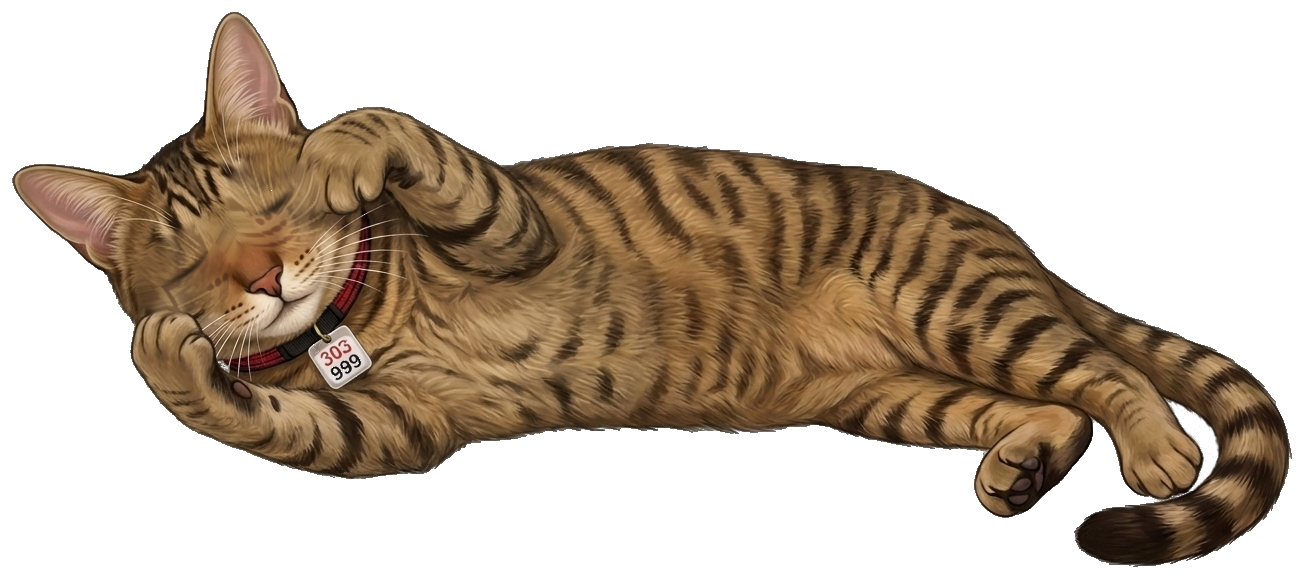
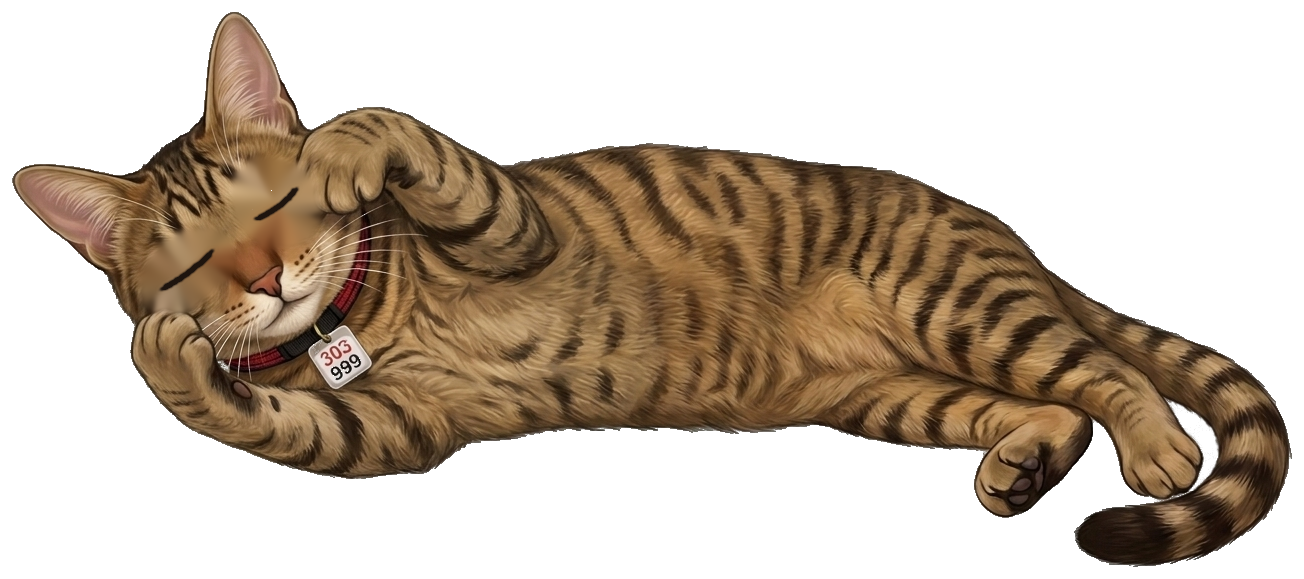
fix(eyes): restore full-width bold curved closed-eye lines with smooth smudge-free eyelids (v1.5.1)

Changed region(s): [[0.092, 0.2798, 0.2454, 0.5596]]

diff --git a/tools/make_closed.py b/tools/make_closed.py
@@ -1,16 +1,13 @@
-"""Paint a natural fur-textured closed-eye variant of a skin texture.
+"""Paint a clean, bold closed-eye variant of a skin texture.
 
     python tools/make_closed.py renderer/models/cat2d --name cat
 
 Replaces each open eye with:
-1. Smooth base fur color inpainted from the surrounding eye socket + directional
-   upper/lower lid tone continuity.
-2. Real high-frequency hair/fur grain sampled strictly from pure brow/cheek fur
-   outside the eye socket (with all eye/eyeliner pixels masked out of the grain
-   source so zero open-eye ghosting can ever occur).
-3. Subtle 3D convex upper-lid shading + soft upper fold shadow + a tapered,
-   Gaussian-feathered dark warm-brown lash crease that narrows smoothly at both
-   canthi (no hard drawn polyline).
+1. Smooth surrounding fur color via Telea inpainting + Gaussian feathering,
+   swallowing dark outer eyeliner pixels so no black smudges bleed into the socket.
+2. A full-width, bold dark curved closed-eye line (`[-1.75*rx, +1.75*rx]`,
+   `thickness=3` across the main span with soft tip tapering at the outer 15%)
+   that reads clearly even at small desktop-pet window scales.
 """
 import argparse
 import json
@@ -51,14 +48,12 @@ def main():
     eye_angle_deg = math.degrees(eye_angle_rad)
     cos_a, sin_a = math.cos(eye_angle_rad), math.sin(eye_angle_rad)
 
-    # True green/yellow-green iris marker (strict enough not to match golden tabby fur)
     b, g, r = bgr[..., 0].astype(int), bgr[..., 1].astype(int), bgr[..., 2].astype(int)
-    green = (((g > 95) & (g > r + 10) & (g > b + 28)) & (alpha > 40)).astype(np.uint8)
+    green = (((g > 90) & (g > r + 15) & (g > b + 18)) & (alpha > 40)).astype(np.uint8)
     _, lab = cv2.connectedComponents(green)
-    kern = cv2.getStructuringElement(cv2.MORPH_ELLIPSE, (19, 19))
+    kern = cv2.getStructuringElement(cv2.MORPH_ELLIPSE, (21, 25))
 
     eye_masks = []
-    all_eyes_union = np.zeros((h, w), np.uint8)
     for e in meta["eyes"]:
         cx, cy = e["cx"] - ox, e["cy"] - oy
         rx, ry = float(e["rx"]), float(e["ry"])
@@ -66,147 +61,93 @@ def main():
         cv2.ellipse(
             m,
             (int(round(cx)), int(round(cy))),
-            (int(round(rx * 2.85)), int(round(ry * 2.80))),
+            (int(round(rx * 2.55)), int(round(ry * 2.55))),
             eye_angle_deg,
             0,
             360,
             1,
             -1,
         )
-        y_lo, y_hi = max(0, int(cy) - 18), min(h, int(cy) + 19)
-        x_lo, x_hi = max(0, int(cx) - 22), min(w, int(cx) + 23)
+        y_lo, y_hi = max(0, int(cy) - 20), min(h, int(cy) + 21)
+        x_lo, x_hi = max(0, int(cx) - 25), min(w, int(cx) + 26)
         win = lab[y_lo:y_hi, x_lo:x_hi]
         ids, counts = np.unique(win[win > 0], return_counts=True)
         if len(ids):
             lid = ids[np.argmax(counts)]
             comp = (lab == lid).astype(np.uint8)
             local_box = np.zeros((h, w), np.uint8)
-            cv2.circle(local_box, (int(round(cx)), int(round(cy))), int(round(max(rx, ry) * 1.9)), 1, -1)
+            cv2.circle(local_box, (int(round(cx)), int(round(cy))), int(round(max(rx, ry) * 1.85)), 1, -1)
             m |= cv2.dilate(comp & local_box, kern)
+
+        # Swallow dark eyeliner pixels right on the border of m so inpaint doesn't smear dark wedges
+        border_ring = cv2.dilate(m, np.ones((7, 7), np.uint8)) - m
+        luma = 0.114 * b + 0.587 * g + 0.299 * r
+        ring_vals = luma[(border_ring > 0) & (alpha > 150)]
+        if len(ring_vals):
+            dark_thresh = np.percentile(ring_vals, 25)
+            dark_border = (border_ring > 0) & (luma < min(85, dark_thresh + 10))
+            m[dark_border] = 1
+            m = cv2.dilate(m, np.ones((3, 3), np.uint8))
+
         eye_masks.append((cx, cy, rx, ry, m))
-        all_eyes_union |= m
         print("eye mask px:", int(m.sum()))
 
-    # Extract high-frequency fur texture from the original image, strictly
-    # zeroing out any pixel inside or near the eye masks so no eyeball/eyeliner
-    # edge can ever be copied into the closed eyelid.
-    orig_f = orig_bgr.astype(np.float32)
-    orig_low = cv2.GaussianBlur(orig_f, (0, 0), 2.8)
-    fur_grain = np.clip(orig_f - orig_low, -22.0, 22.0)
-    no_grain_zone = cv2.dilate(all_eyes_union, cv2.getStructuringElement(cv2.MORPH_ELLIPSE, (9, 9))) > 0
-    fur_grain[no_grain_zone] = 0.0
+    def rot_pt(dx, dy, cx0, cy0):
+        return (cx0 + dx * cos_a - dy * sin_a, cy0 + dx * sin_a + dy * cos_a)
 
-    # Fill transparent background pixels with the local fur median before inpainting
-    opaque_fur = orig_bgr[(alpha > 180) & (~no_grain_zone)]
+    opaque_fur = orig_bgr[alpha > 180]
     fallback_col = (
         np.median(opaque_fur, axis=0).astype(np.uint8)
         if len(opaque_fur)
         else np.array([105, 152, 192], dtype=np.uint8)
     )
-
     bgr_for_inpaint = bgr.copy()
     outside = alpha < 60
     if outside.any():
         bgr_for_inpaint[outside] = fallback_col
 
-    yy, xx = np.mgrid[0:h, 0:w].astype(np.float32)
-
     for cx, cy, rx, ry, mask in eye_masks:
-        # 1. Smooth base color inpaint (large radius + heavy Gaussian smoothing inside socket
-        # so dark corner eyeliner doesn't leave dark puddles inside the lid)
-        inpainted = cv2.inpaint(bgr_for_inpaint, mask * 255, 10, cv2.INPAINT_NS)
-        inpainted_smooth = cv2.GaussianBlur(inpainted.astype(np.float32), (0, 0), 4.5)
-
-        # Blend toward the warm median fur color right around the upper/lower socket
-        dx = xx - cx
-        dy = yy - cy
-        u = (dx * cos_a + dy * sin_a) / max(rx, 1.0)
-        v = (-dx * sin_a + dy * cos_a) / max(ry, 1.0)
-
-        # Sample clean brow fur color above the eye and cheek fur color below the eye
-        brow_ring = (np.abs(u) < 1.6) & (v > -3.6) & (v < -2.7) & (alpha > 160) & (~no_grain_zone)
-        cheek_ring = (np.abs(u) < 1.6) & (v > 2.7) & (v < 3.6) & (alpha > 160) & (~no_grain_zone)
-        if brow_ring.any() and cheek_ring.any():
-            brow_col = np.median(orig_bgr[brow_ring], axis=0).astype(np.float32)
-            cheek_col = np.median(orig_bgr[cheek_ring], axis=0).astype(np.float32)
-            t_vert = np.clip((v + 2.2) / 4.4, 0.0, 1.0)[..., None]
-            vert_grad = brow_col * (1.0 - t_vert) + cheek_col * t_vert
-            core_w = np.exp(-0.5 * ((u / 1.9) ** 2 + (v / 1.8) ** 2))[..., None] * 0.45
-            inpainted_smooth = inpainted_smooth * (1.0 - core_w) + vert_grad * core_w
-
-        # Feather the socket mask edge so there is zero seam
-        mask_f = cv2.GaussianBlur(mask.astype(np.float32), (0, 0), 2.6) * (alpha > 20).astype(np.float32)
-        mask_f3 = mask_f[..., None]
-
-        # Gently curved resting eyelid crease (slightly lower in the middle, uplifted at corners)
-        v_crease = 0.22 - 0.14 * (u ** 2)
-
-        # 2. Graft real high-frequency fur grain from outside the eye socket using
-        # smooth bilinear remapping so hair strokes are crisp and never blocky.
-        u_src = np.clip(u * 0.82, -1.65, 1.65)
-        v_src = np.where(
-            v <= v_crease,
-            -3.15 + (v - v_crease) * 0.65,
-            +3.05 + (v - v_crease) * 0.65,
-        )
-        map_x = np.clip(cx + (u_src * rx) * cos_a - (v_src * ry) * sin_a, 0, w - 1).astype(np.float32)
-        map_y = np.clip(cy + (u_src * rx) * sin_a + (v_src * ry) * cos_a, 0, h - 1).astype(np.float32)
-        sampled_grain = cv2.remap(fur_grain, map_x, map_y, cv2.INTER_LINEAR, borderMode=cv2.BORDER_REFLECT)
-        sampled_alpha = cv2.remap(alpha.astype(np.float32), map_x, map_y, cv2.INTER_LINEAR, borderMode=cv2.BORDER_CONSTANT)
-        valid_src = (sampled_alpha > 150).astype(np.float32)[..., None]
-        coat_scale = np.clip(inpainted_smooth / 95.0, 0.35, 1.05)
-        sampled_grain = sampled_grain * valid_src * coat_scale
-
-        lid_tex = np.clip(inpainted_smooth + sampled_grain, 0, 255)
-
-        # 3. 3D upper-eyelid dome shading: slightly fuller/warmer on the upper lid dome,
-        # soft crease shadow along the top socket fold
-        dome = np.exp(-((u / 1.25) ** 2 + ((v + 0.25) / 0.80) ** 2))
-        upper_fold = np.exp(-(((v + 1.15 + 0.12 * (u ** 2)) / 0.35) ** 2)) * np.exp(-((u / 1.45) ** 2))
-        lid_tex = lid_tex * (1.0 + 0.05 * dome[..., None] - 0.09 * upper_fold[..., None])
-
-        cur_f = bgr.astype(np.float32) * (1.0 - mask_f3) + lid_tex * mask_f3
-
-        # 4. Natural tapered eyelid slit (soft feathered lash line + subtle lower-lid rim highlight)
-        span = np.clip(1.0 - (u / 1.62) ** 2, 0.0, 1.0)
-        taper = span ** 1.35  # smooth point at both inner and outer corners
-
-        dist_c = v - v_crease
-        sigma = 0.12 + 0.05 * span
-        crease_w = np.exp(-0.5 * (dist_c / sigma) ** 2) * taper * (alpha > 45).astype(np.float32)
-        crease_w = np.clip(crease_w * 0.88, 0.0, 0.90)[..., None]
-
-        # Upper lash/fur fringe softening right above the slit
-        lash_fringe = (
-            np.exp(-0.5 * ((dist_c + 0.14) / 0.17) ** 2)
-            * (span ** 1.6)
-            * 0.24
-            * (alpha > 45).astype(np.float32)
-        )[..., None]
-
-        # Subtle lower-lid rim highlight just below the slit so the two lids look met, not drawn
-        lower_rim = (
-            np.exp(-0.5 * ((dist_c - 0.17) / 0.14) ** 2)
-            * (span ** 1.5)
-            * 0.13
-            * (alpha > 45).astype(np.float32)
-        )[..., None]
-
-        ring_mask = (u ** 2 + v ** 2 > 7.5) & (u ** 2 + v ** 2 < 14.0) & (alpha > 150) & (~no_grain_zone)
-        if ring_mask.any():
-            lid_col = np.median(orig_bgr[ring_mask], axis=0).astype(np.float32)
-        else:
-            lid_col = np.array([90.0, 120.0, 150.0], np.float32)
-        crease_col = np.clip(lid_col * 0.22 + np.array([6.0, 9.0, 14.0], np.float32), 8.0, 44.0)
-
-        cur_f = cur_f * (1.0 - lash_fringe) + (crease_col * 1.25) * lash_fringe
-        cur_f = np.clip(cur_f + lower_rim * np.array([12.0, 15.0, 19.0], np.float32), 0, 255)
-        cur_f = cur_f * (1.0 - crease_w) + crease_col * crease_w
-
-        bgr = np.clip(cur_f, 0, 255).astype(np.uint8)
+        inpainted = cv2.inpaint(bgr_for_inpaint, mask * 255, 6, cv2.INPAINT_TELEA)
+        inpainted_smooth = cv2.GaussianBlur(inpainted.astype(np.float32), (0, 0), 2.0)
+        mask_f = cv2.GaussianBlur(mask.astype(np.float32), (0, 0), 2.5) * (alpha > 15).astype(np.float32)
+        bgr = np.clip(
+            bgr.astype(np.float32) * (1.0 - mask_f[..., None]) + inpainted_smooth * mask_f[..., None],
+            0,
+            255,
+        ).astype(np.uint8)
         bgr_for_inpaint = bgr.copy()
         if outside.any():
             bgr_for_inpaint[outside] = fallback_col
+
+        # Full-width bold curved lid line spanning [-1.75*rx, +1.75*rx],
+        # keeping full 3px thickness across 80% of the eye and tapering only at the outer tips
+        p0 = rot_pt(-rx * 1.75, 0.5, cx, cy)
+        p2 = rot_pt(+rx * 1.75, 0.5, cx, cy)
+        p1 = rot_pt(0.0, ry * 0.52, cx, cy)
+        pts = []
+        for i in range(49):
+            t = i / 48.0
+            x = (1 - t) ** 2 * p0[0] + 2 * (1 - t) * t * p1[0] + t * t * p2[0]
+            y = (1 - t) ** 2 * p0[1] + 2 * (1 - t) * t * p1[1] + t * t * p2[1]
+            pts.append((x, y))
+
+        line = np.zeros((h, w), np.float32)
+        for i in range(len(pts) - 1):
+            t_mid = (i + 0.5) / (len(pts) - 1)
+            d_end = abs(t_mid - 0.5) * 2.0
+            seg_thick = 3 if d_end < 0.78 else (2 if d_end < 0.90 else 1)
+            seg_val = 255.0 if d_end < 0.82 else 255.0 * (1.0 - (d_end - 0.82) / 0.20)
+            seg_canvas = np.zeros((h, w), np.uint8)
+            pt_a = (int(round(pts[i][0])), int(round(pts[i][1])))
+            pt_b = (int(round(pts[i + 1][0])), int(round(pts[i + 1][1])))
+            cv2.line(seg_canvas, pt_a, pt_b, int(round(max(0, seg_val))), seg_thick, cv2.LINE_AA)
+            line = np.maximum(line, seg_canvas.astype(np.float32))
+
+        line = cv2.GaussianBlur(line, (0, 0), 0.8) / 255.0
+        line = np.clip(line * 1.38, 0, 1) * (alpha > 40).astype(np.float32)
+        line = line[..., None]
+        lid_color = np.array([14, 20, 30], np.float32)
+        bgr = (bgr.astype(np.float32) * (1 - line) + lid_color * line).astype(np.uint8)
 
     out = np.dstack([bgr, alpha])
     cv2.imwrite(str(out_path), out)
